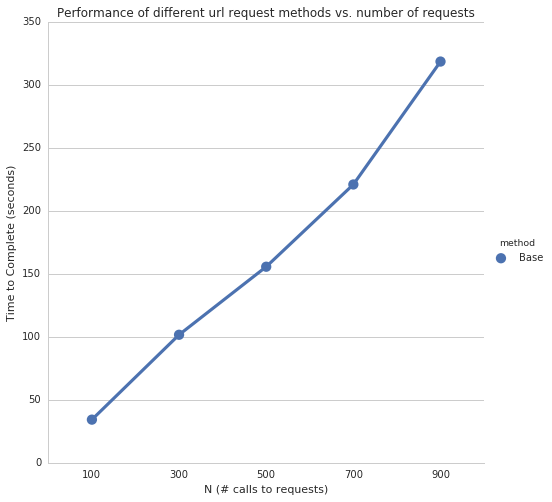
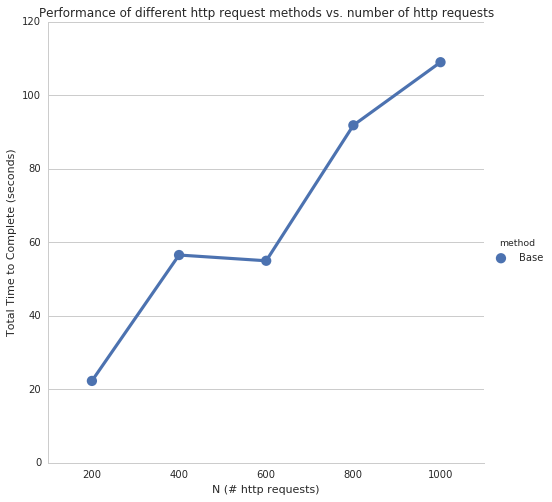
updated http optimization post

diff --git a/_posts/2016-04-18-faster-python-data-scraping.md b/_posts/2016-04-18-faster-python-data-scraping.md
@@ -5,7 +5,7 @@ title: Faster Python Data Scraping with gevent.pool
 
 In my second project at Metis, I wanted to develop a linear regression model to predict the number of Academy Award nominations for a movie. In order to collect the data to develop my model, I had to scrape a lot of movie data from [BoxOfficeMojo.com](http://www.boxofficemojo.com/). One of the major issues with collecting the data was how slow it was to scrape the data and transform it to a format that I could use to develop the model. After doing some high-level performance profiling of my code using [`cProfile`](http://stackoverflow.com/questions/582336/how-can-you-profile-a-python-script), I discovered the major bottleneck was the http request for each movie (using the python `requests` package).
 
-To quantify how slow it was, using my initial code (the "Base" case in the analysis below), it took ~0.3 seconds per movie for each http request. That might not sound like much, but to collect the data for the 9000+ movies from 2000-2015 on [BoxOfficeMojo.com](http://www.boxofficemojo.com/), it would take a whopping 45+ minutes!
+To quantify how slow it was, using my initial code (the "Base" case in the analysis below), it took ~0.1 seconds per movie for each http request. That might not sound like much, but to collect the data for the 9000+ movies from 2000-2015 on [BoxOfficeMojo.com](http://www.boxofficemojo.com/), it would take 15+ minutes! That's a long time, especially as we're constantly iterating on the data we're collecting as we develop the model.
 
 Therefore, I set out to devleop a way to improve the performance so I could scrape movie data quicker. In the remainder of this post, I'll take you through a comparison of the performance of the different methods I tried, as well as the fastest method I settled on using. Here are the different methods I'll be comparing:
 
@@ -42,11 +42,11 @@ import numpy as np
 from pandas import DataFrame
 ~~~
 
-To keep things simple, we'll make all our http requests to http://espn.go.com/. Hopefully ESPN doesn't mind us making so many requests to their servers!
+To keep things simple, we'll make all our http requests to http://www.boxofficemojo.com. Hopefully they don't mind us making so many requests to their servers!
 
 
 ~~~python
-url = 'http://espn.go.com/'
+url = 'http://www.boxofficemojo.com/'
 ~~~
 
 Let's also create an empty list, `performance_results`, to track the performance of each function
@@ -66,7 +66,7 @@ def simulateHttpRequests(my_func, url, method_name):
     a dictionary with information about the function and it's performance
     '''
     times = []
-    for N in np.arange(100, 901, 200):
+    for N in np.arange(200, 1001, 200):
         secs = my_func(url, N)[1]
         times.append({'method': method_name,'N': N, 'seconds': secs})
     return times
@@ -82,9 +82,8 @@ def plotPerformance(performance_results):
     g = sns.factorplot(x='N', y='seconds', hue='method',
                    data=df, size=7, ci=None)
 
-    g.set_axis_labels('N (# calls to requests)',
-        'Time to Complete (seconds)')
-    plt.title('Performance of different url request methods vs. number of requests')
+    g.set_axis_labels('N (# http requests)', 'Total Time to Complete (seconds)')
+    plt.title('Performance of different http request methods vs. number of http requests')
 ~~~
 
 Next, we define a function `timefunc` we'll use to measure the time (in seconds) each of our functions takes to complete.
@@ -126,11 +125,11 @@ def makeRequestsBase(url, N):
 performance_results += simulateHttpRequests(makeRequestsBase, url, 'Base')
 ~~~
 
-    makeRequestsBase took 34.261341095 seconds
-    makeRequestsBase took 101.637778044 seconds
-    makeRequestsBase took 155.655081987 seconds
-    makeRequestsBase took 220.947253942 seconds
-    makeRequestsBase took 318.538731098 seconds
+    makeRequestsBase took 22.2858679295 seconds
+    makeRequestsBase took 56.5521509647 seconds
+    makeRequestsBase took 54.9886300564 seconds
+    makeRequestsBase took 91.8658950329 seconds
+    makeRequestsBase took 109.037662029 seconds
 
 
 
@@ -139,7 +138,8 @@ plotPerformance(performance_results)
 ~~~
 
 
-<amp-img width="552" height="502" layout="responsive" src="/assets/images/http-optimization/base.png"></amp-img>
+<amp-img width="424" height="386" layout="responsive" src="/assets/images/http-optimization/base.png"></amp-img>
+
 
 As you can see, the time to complete all http requests directly increases with an increase in `N` http requests. Translation: Need to make a lot of separate `requests.get()` calls? You're going to have to wait a while. Let's see if we can do better...
 
@@ -165,11 +165,11 @@ def makeRequestsWithSession(url, N):
 performance_results += simulateHttpRequests(makeRequestsWithSession, url, 'Sessions')
 ~~~
 
-    makeRequestsWithSession took 11.7829890251 seconds
-    makeRequestsWithSession took 43.0925910473 seconds
-    makeRequestsWithSession took 85.0919430256 seconds
-    makeRequestsWithSession took 88.1241760254 seconds
-    makeRequestsWithSession took 119.023229122 seconds
+    makeRequestsWithSession took 15.066172123 seconds
+    makeRequestsWithSession took 25.9786450863 seconds
+    makeRequestsWithSession took 48.7462890148 seconds
+    makeRequestsWithSession took 60.7137110233 seconds
+    makeRequestsWithSession took 74.8754990101 seconds
 
 
 
@@ -178,10 +178,10 @@ plotPerformance(performance_results)
 ~~~
 
 
-<amp-img width="568" height="502" layout="responsive" src="/assets/images/http-optimization/base_v_session.png"></amp-img>
+<amp-img width="437" height="386" layout="responsive" src="/assets/images/http-optimization/base_v_session.png"></amp-img>
 
 
-Based on the results, using `requests.Sessions()` on repeated http requests improves the performance significantly. For example, using `Sessions` takes ~40% as much time as using repeated `requests.get()` (~125 seconds vs. ~325 seconds).
+Based on the results, using `requests.Sessions()` on repeated http requests improves the performance significantly. For example, using `Sessions` takes ~60% as much time as using repeated `requests.get()` (~70 seconds vs. ~110 seconds).
 
 ## Using Pooling with `gevent.pool`
 
@@ -208,12 +208,11 @@ def makeRequestsWithPooling(url, N):
 performance_results += simulateHttpRequests(makeRequestsWithPooling, url, 'Pooling')
 ~~~
 
-
-    makeRequestsWithPooling took 5.13833785057 seconds
-    makeRequestsWithPooling took 14.8546040058 seconds
-    makeRequestsWithPooling took 27.5836908817 seconds
-    makeRequestsWithPooling took 42.0458250046 seconds
-    makeRequestsWithPooling took 48.0854520798 seconds
+    makeRequestsWithPooling took 2.18829607964 seconds
+    makeRequestsWithPooling took 3.18417310715 seconds
+    makeRequestsWithPooling took 6.19790005684 seconds
+    makeRequestsWithPooling took 6.60030603409 seconds
+    makeRequestsWithPooling took 7.90286302567 seconds
 
 
 
@@ -222,7 +221,7 @@ plotPerformance(performance_results)
 ~~~
 
 
-<amp-img width="568" height="502" layout="responsive" src="/assets/images/http-optimization/base_v_session_v_pooling.png"></amp-img>
+<amp-img width="436" height="386" layout="responsive" src="/assets/images/http-optimization/base_v_session_v_pooling.png"></amp-img>
 
 
 Now we're talking! Using `gevent.pool` seems to significantly improve the speed with which we can make repeated http requests, without much additional cost in time as `N` increases.
@@ -251,11 +250,11 @@ def makeRequestsWithSessionAndPooling(url, N):
 performance_results += simulateHttpRequests(makeRequestsWithSessionAndPooling, url, 'Sessions and Pooling')
 ~~~
 
-    makeRequestsWithSessionAndPooling took 9.64339089394 seconds
-    makeRequestsWithSessionAndPooling took 11.2737030983 seconds
-    makeRequestsWithSessionAndPooling took 26.1544210911 seconds
-    makeRequestsWithSessionAndPooling took 44.1734030247 seconds
-    makeRequestsWithSessionAndPooling took 40.9915108681 seconds
+    makeRequestsWithSessionAndPooling took 1.01481890678 seconds
+    makeRequestsWithSessionAndPooling took 1.43802595139 seconds
+    makeRequestsWithSessionAndPooling took 2.82900905609 seconds
+    makeRequestsWithSessionAndPooling took 3.96559691429 seconds
+    makeRequestsWithSessionAndPooling took 4.88879513741 seconds
 
 
 
@@ -264,14 +263,14 @@ plotPerformance(performance_results)
 ~~~
 
 
-<amp-img width="623" height="502" layout="responsive" src="/assets/images/http-optimization/compare_all.png"></amp-img>
+<amp-img width="479" height="386" layout="responsive" src="/assets/images/http-optimization/compare_all.png"></amp-img>
 
 
 Based on the simulated data, combining `requests.Session()` and `gevent.pool` doesn't improve much on simply `gevent.pool`.
 
 ## Conclusion
 
-I ended up using the `gevent.pool` method which allowed me to scrape all 9000+ movies from [BoxOfficeMojo.com](http://www.boxofficemojo.com/) from 2000-2015 in ~10 minutes! A big improvement in the 45+ minutes it would have taken me to scrape the same amount of data with the "Base case" using repeated `requests.get()` calls.
+I ended up using the `gevent.pool` method which allowed me to scrape all 9000+ movies from [BoxOfficeMojo.com](http://www.boxofficemojo.com/) from 2000-2015 in ~2 minutes! A big improvement in the 15+ minutes it would have taken me to scrape the same amount of data with the "Base case" using repeated `requests.get()` calls.
 
 Why didn't I use the combined `requests.Session()` and `gevent.pool` methods? Simplicity / less moving parts, especially given the combined method didn't offer much of a performance improvement.
 
@@ -280,3 +279,8 @@ Why didn't I use the combined `requests.Session()` and `gevent.pool` methods? Si
 This was my first experience using the [gvent](http://www.gevent.org/gevent.pool.html) package so I'd like to experiment with it in more detail and see what similar options are available. For example, I'd like to experiment to find the optimal size of the `gevent.pool`. In this post I chose a pool size of 25 based off some quick experimentation of using different values. I noticed above a value of 25, the performance increase was barely noticeable, but I'd like to explore in more detail why that might be.
 
 Anyways, until next time and happy scraping!
+
+
+## Source
+
+You can check out [this](https://github.com/maxmelnick/movie_scraping/blob/master/http-request-optimization.ipynb) Jupyter Notebook on my Github repository to see the full source for this post.
